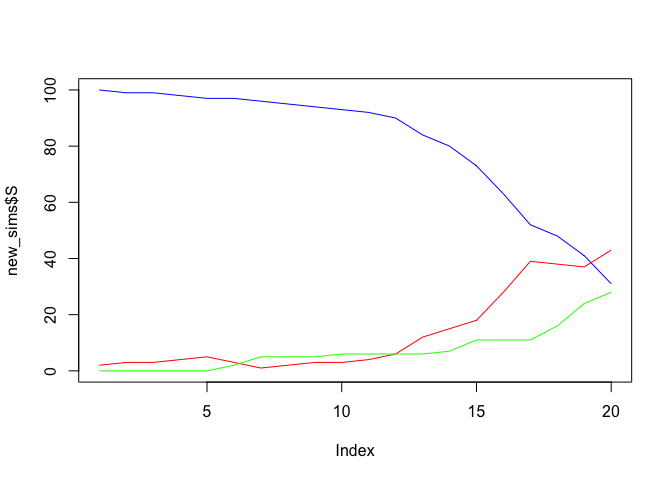
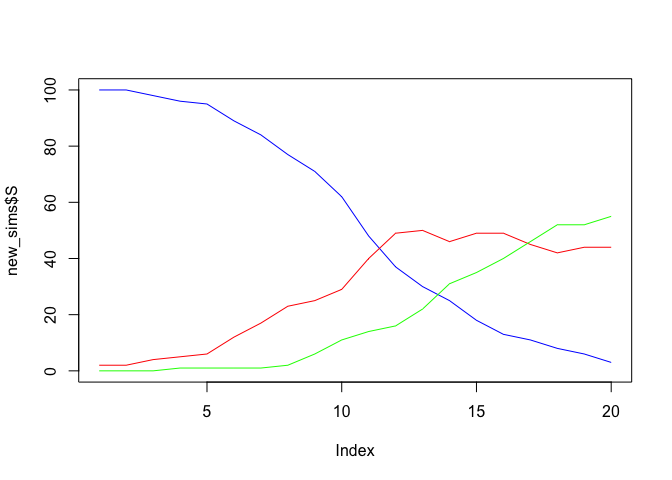
set seed and show data output

diff --git a/README.md b/README.md
@@ -22,8 +22,33 @@ devtools::install_github("njtierney/sirtensor")
 This is a basic example
 
 ``` r
+set.seed(2021-07-29-1333)
 library(sirtensor)
 new_sims <- pop_sim()
+new_sims
+#> # A tibble: 20 x 3
+#>        S     I     R
+#>    <int> <int> <int>
+#>  1   100     2     0
+#>  2   100     2     0
+#>  3    98     4     0
+#>  4    96     5     1
+#>  5    95     6     1
+#>  6    89    12     1
+#>  7    84    17     1
+#>  8    77    23     2
+#>  9    71    25     6
+#> 10    62    29    11
+#> 11    48    40    14
+#> 12    37    49    16
+#> 13    30    50    22
+#> 14    25    46    31
+#> 15    18    49    35
+#> 16    13    49    40
+#> 17    11    45    46
+#> 18     8    42    52
+#> 19     6    44    52
+#> 20     3    44    55
 
 plot(new_sims$S, type = "l", col = "blue", ylim = c(0, new_sims$S[1]))
 lines(new_sims$I, col = "red")
